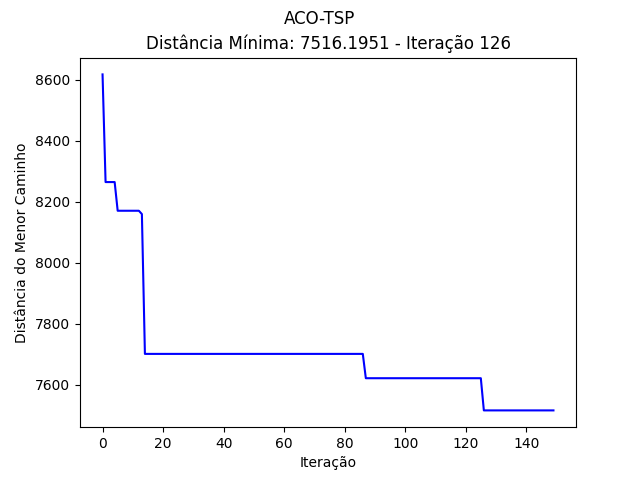
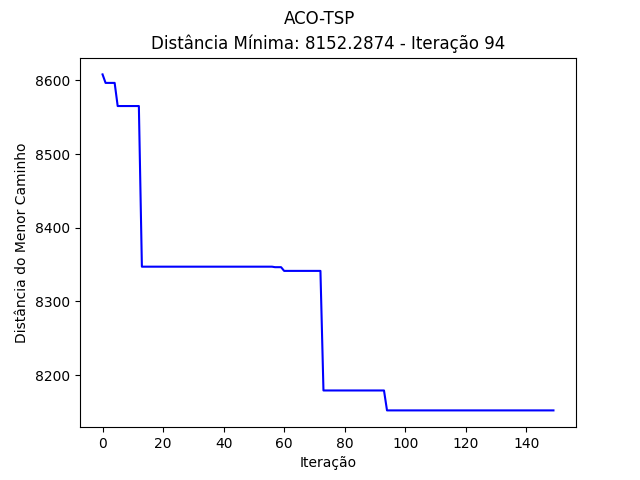
Fixed ACO-TSP again...

diff --git a/Trabalho 3 - PSO e ACO/aco_tsp.py b/Trabalho 3 - PSO e ACO/aco_tsp.py
@@ -160,7 +160,7 @@ class ACO_TSP:
                 # Iniciando as variáveis relativas ao caminho
                 path = [current_city]
                 path_distance = 0.0
-                prev_city = cp(current_city)
+                first_city = cp(current_city) # marcar o primeiro nó para posterior cálculo da distância
                 
                 # Percorrendo o grafo com a formiga atual
                 while np.any(np.logical_not(visited_city)):
@@ -183,11 +183,10 @@ class ACO_TSP:
                     path.append(next_city)
                     path_distance += dist_cities[current_city, next_city]
                     visited_city[next_city] = True
-                    prev_city = cp(current_city)
-                    current_city = cp(next_city)    
+                    current_city = cp(next_city)
                 
                 # Obtendo a distância relativa ao último nó para o primeiro
-                path_distance += dist_cities[prev_city, current_city]
+                path_distance += dist_cities[first_city, current_city]
                 
                 # Avaliando a rota construída por cada formiga
                 if path_distance < best_path_distance:

diff --git a/Trabalho 3 - PSO e ACO/experiments.py b/Trabalho 3 - PSO e ACO/experiments.py
@@ -456,7 +456,7 @@ def main():
     elite_ant = 5      # Número de formigas elitistas
     tau_init = 1e-6    # Trilha de feromônio inicial
     max_it = 150       # Número máximo de iterações
-    max_patience = 25  # Número máximo para estagnação ('paciência')
+    max_patience = 10  # Número máximo para estagnação ('paciência')
 
     # Execução do ACO-TSP
     aco_tsp = ACO_TSP(
